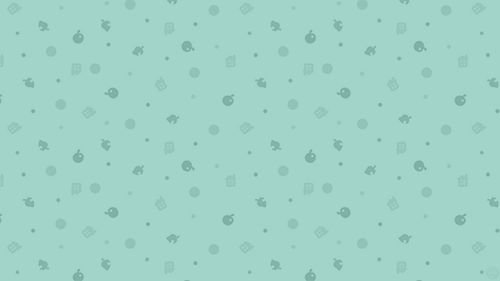
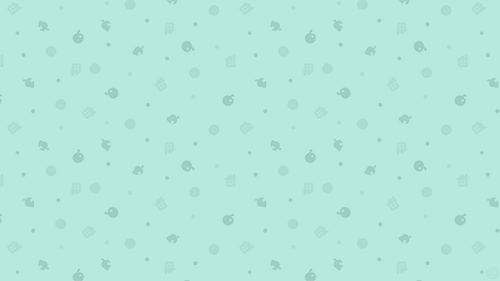
pattern updates

diff --git a/css/main.css b/css/main.css
@@ -9,7 +9,7 @@
 
 body {
 	font-family: "Cabin";
-	background: url("../img/ac_pattern03.png");
+	background: url("../img/ac_pattern05.png");
 }
 
 h1, .jumbotron h3 {
@@ -21,13 +21,19 @@ h1, .jumbotron h3 {
 }
 
 .jumbotron {
-	background: linear-gradient(rgba(53, 143, 129, 1),rgba(53, 143, 129, .3));
+	background: linear-gradient(rgba(53, 143, 129, 1),rgba(53, 143, 129, 0));
 	text-align: center;
 }
 
 #title {
 	color: #fdca31;
 	text-shadow: 3px 3px #72540e;
+}
+
+.table-container {
+	background: #95c2ad;
+	border-radius: 40px;
+	min-width:80%;
 }
 
 

diff --git a/index.html b/index.html
@@ -36,7 +36,7 @@
 		
 		<div class="main" ng-controller="MainController">
 
-			<div class="container">
+			<div class="container table-container">
 				<table class="table table-hover">
 					<caption><h1>Villager Essences & Primary Resources</h2></caption>
 					<thead><tr>
